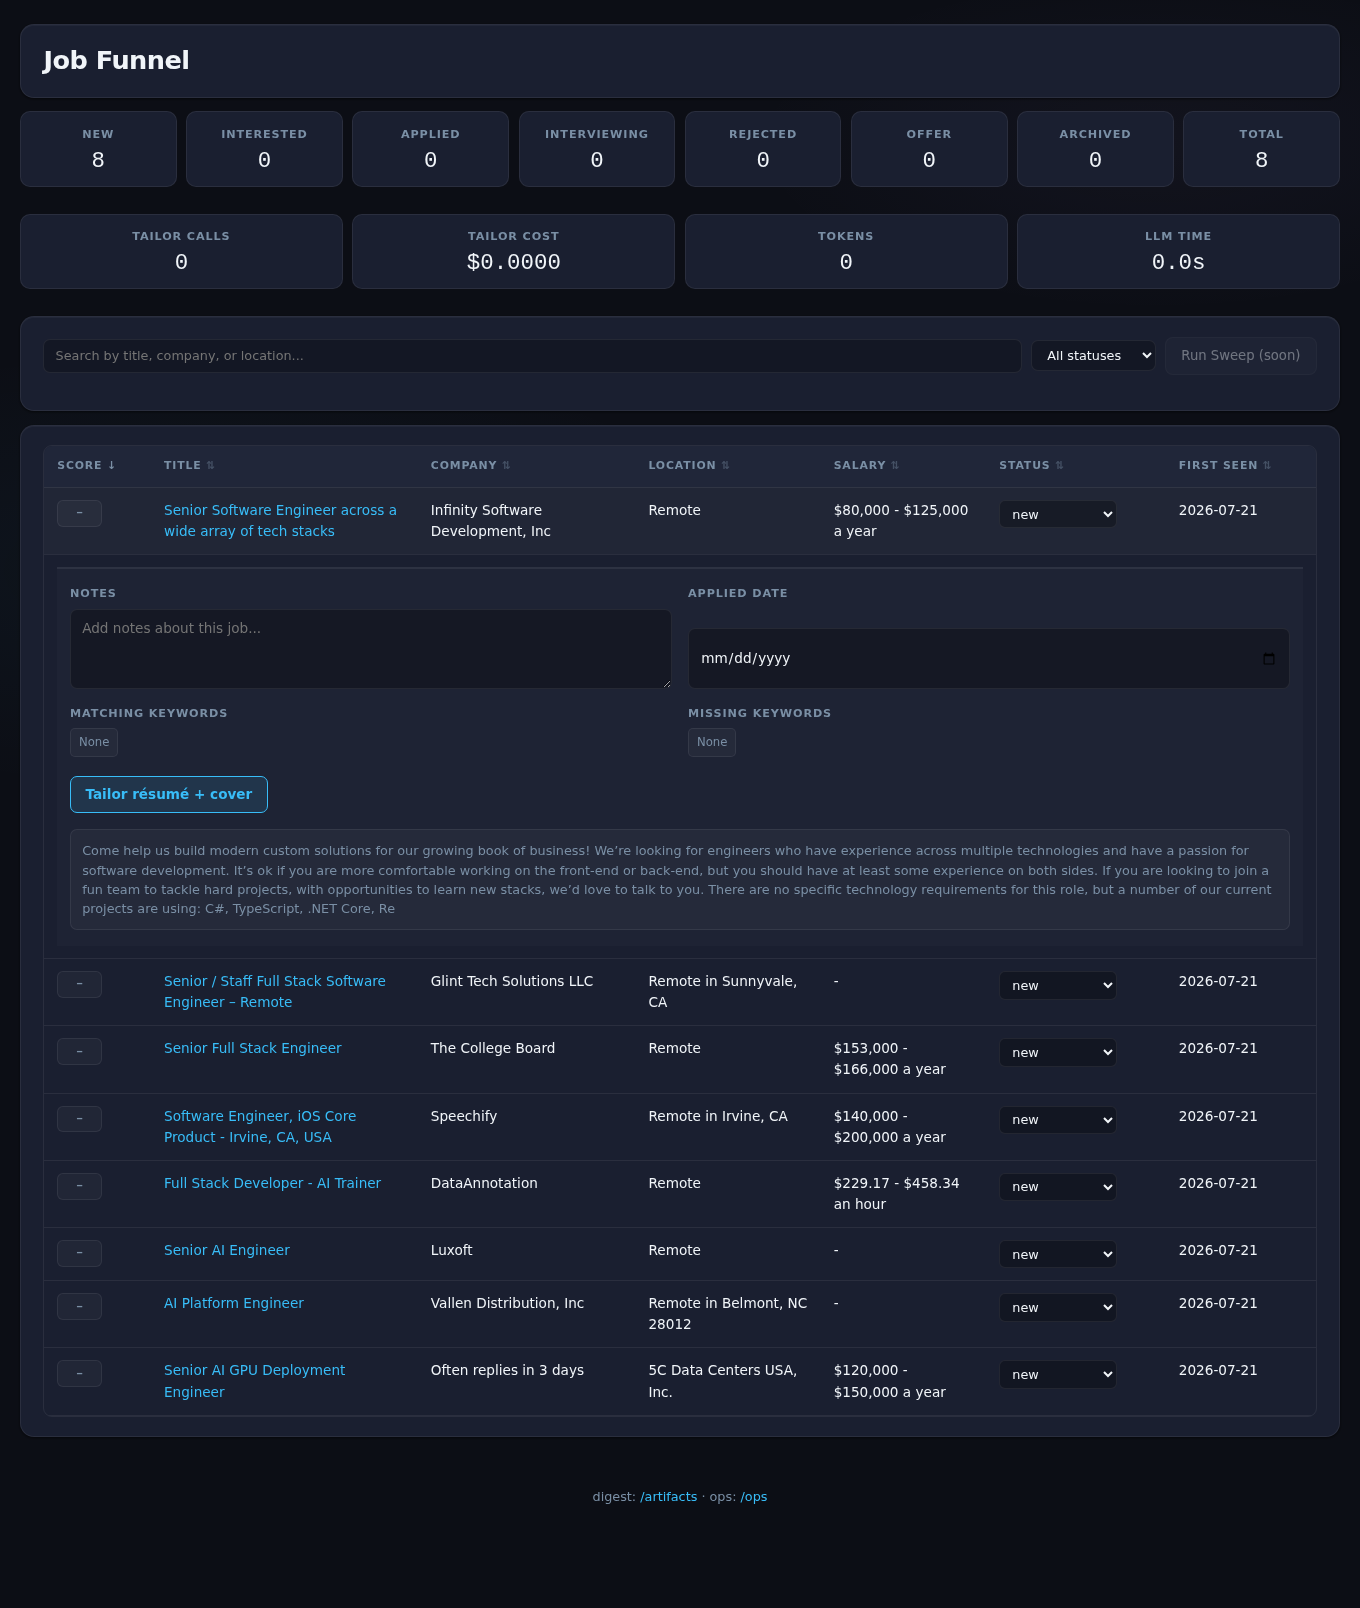
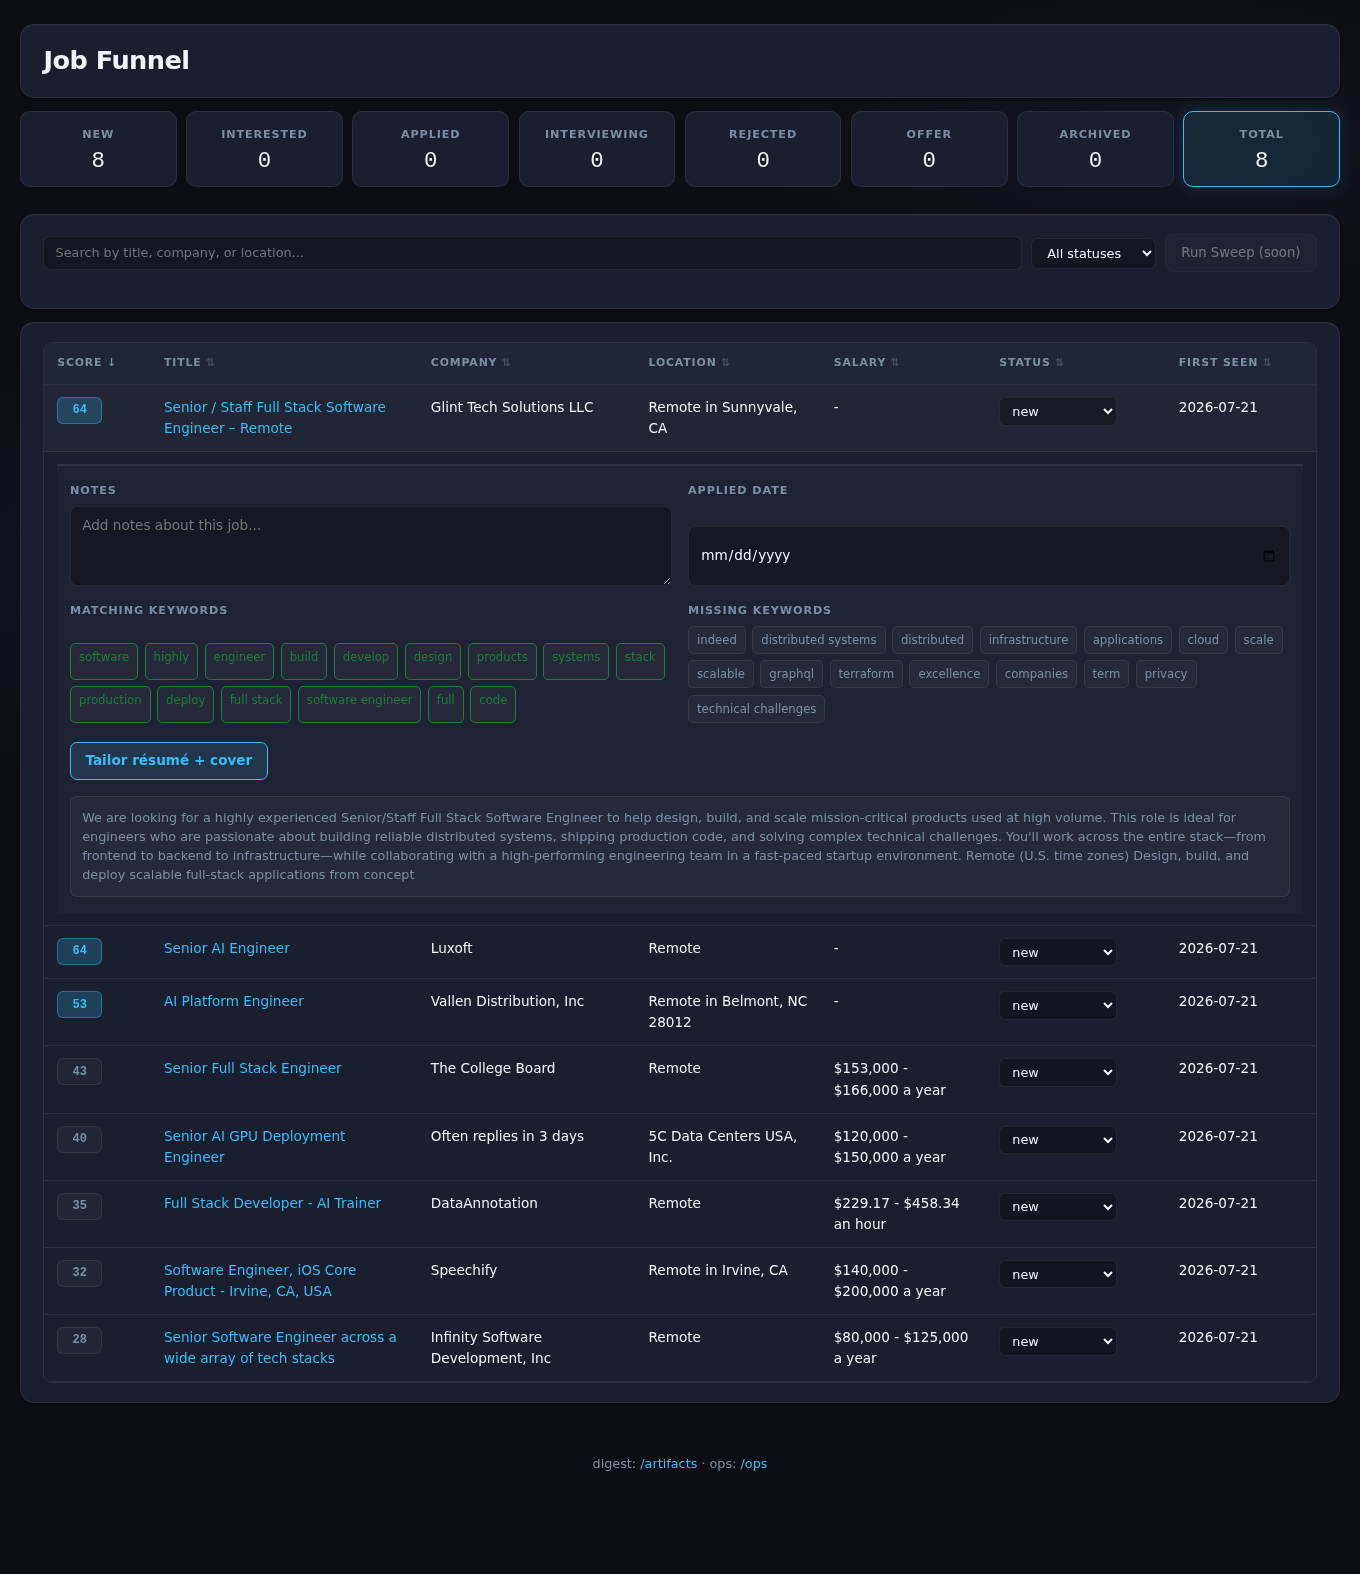
Tracker Phase 2 review fixes: clickable Total, move LLM stats off main page
- Total status tile is now clickable (clears the status filter) and shows an
  active state when no filter is set — matches the other tiles.
- Remove the cumulative LLM stat tiles from the tracker header (they read as
  out of place on the main view). The /api/tracker/llm-stats route + llm_totals
  stay for the Phase 3 History tab; per-job tailor cost remains on the row where
  it's contextual to the Tailor action.
- Refresh screenshots with a seeded résumé so scores + matching/missing keywords
  render (empty before only because this worktree had no résumé).

Claude-Session: https://claude.ai/code/session_012xZGmuDvbqEjF9KNtL9y4o

diff --git a/src/dashboard/static/tracker.js b/src/dashboard/static/tracker.js
@@ -3,7 +3,6 @@ const STATUSES = ["new", "interested", "applied", "interviewing", "rejected", "o
 
 // DOM elements
 const statusTilesContainer = document.getElementById("status-tiles");
-const llmStatsContainer = document.getElementById("llm-stats");
 const searchInput = document.getElementById("search-input");
 const statusFilter = document.getElementById("status-filter");
 const errorMessage = document.getElementById("error-message");
@@ -89,20 +88,6 @@ async function fetchSummary() {
   } catch (error) {
     console.error("Failed to fetch summary:", error);
     showError("Failed to load summary data");
-  }
-}
-
-/**
- * Fetch cumulative LLM stats (tailoring is the only LLM cost source)
- */
-async function fetchLlmStats() {
-  try {
-    const response = await fetch("/api/tracker/llm-stats");
-    if (!response.ok) throw new Error(`HTTP ${response.status}`);
-    renderLlmStats(await response.json());
-  } catch (error) {
-    console.error("Failed to fetch LLM stats:", error);
-    // Non-fatal: the tracker is usable without the stats tiles.
   }
 }
 
@@ -199,8 +184,7 @@ async function tailorJob(url, btn) {
       const err = await response.json().catch(() => ({}));
       throw new Error(err.detail || `HTTP ${response.status}`);
     }
-    // Refresh cost tiles + rows, then re-open the row so links are visible.
-    await fetchLlmStats();
+    // Refresh rows (per-job cost + links), then re-open the row.
     await fetchJobs();
     reopenRow(url);
   } catch (error) {
@@ -251,9 +235,12 @@ function renderStatusTiles() {
     statusTilesContainer.appendChild(tile);
   });
 
-  // Add Total tile
+  // Add Total tile — clicking it clears the status filter (shows all)
   const totalTile = document.createElement("div");
   totalTile.className = "status-tile";
+  if (currentFilterStatus === null) {
+    totalTile.classList.add("active");
+  }
   const totalLabel = document.createElement("span");
   totalLabel.className = "status-tile-label";
   totalLabel.textContent = "Total";
@@ -262,34 +249,13 @@ function renderStatusTiles() {
   totalCount.textContent = summary.total || 0;
   totalTile.appendChild(totalLabel);
   totalTile.appendChild(totalCount);
-  statusTilesContainer.appendChild(totalTile);
-}
-
-/**
- * Render LLM stat tiles (cumulative tailoring usage)
- */
-function renderLlmStats(stats) {
-  const tiles = [
-    ["Tailor Calls", stats.calls ?? 0],
-    ["Tailor Cost", `$${(stats.total_cost ?? 0).toFixed(4)}`],
-    ["Tokens", (stats.total_tokens ?? 0).toLocaleString()],
-    ["LLM Time", `${(stats.total_time_seconds ?? 0).toFixed(1)}s`],
-  ];
-
-  llmStatsContainer.innerHTML = "";
-  tiles.forEach(([label, value]) => {
-    const tile = document.createElement("div");
-    tile.className = "stat-tile";
-    const l = document.createElement("span");
-    l.className = "stat-tile-label";
-    l.textContent = label;
-    const v = document.createElement("span");
-    v.className = "stat-tile-value";
-    v.textContent = value;
-    tile.appendChild(l);
-    tile.appendChild(v);
-    llmStatsContainer.appendChild(tile);
+  totalTile.addEventListener("click", () => {
+    currentFilterStatus = null;
+    statusFilter.value = "";
+    renderStatusTiles();
+    filterAndRenderJobs();
   });
+  statusTilesContainer.appendChild(totalTile);
 }
 
 /**
@@ -580,7 +546,6 @@ async function init() {
 
   // Load data
   await fetchSummary();
-  await fetchLlmStats();
   await fetchJobs();
 
   // Update sort indicators

diff --git a/src/dashboard/static/tracker.html b/src/dashboard/static/tracker.html
@@ -284,41 +284,6 @@
       gap: 0.4rem;
     }
 
-    /* LLM stats tiles (tailoring cost) */
-    .llm-stats {
-      display: grid;
-      grid-template-columns: repeat(auto-fit, minmax(120px, 1fr));
-      gap: 0.6rem;
-      margin-bottom: 0.85rem;
-    }
-
-    .stat-tile {
-      background: var(--panel-bg);
-      border: 1px solid var(--border);
-      border-radius: 10px;
-      padding: 0.85rem 1rem;
-      text-align: center;
-    }
-
-    .stat-tile-label {
-      display: block;
-      font-size: 0.7rem;
-      font-weight: 600;
-      text-transform: uppercase;
-      letter-spacing: 0.08em;
-      color: var(--muted);
-      margin-bottom: 0.4rem;
-    }
-
-    .stat-tile-value {
-      display: block;
-      font-family: 'JetBrains Mono', monospace;
-      font-size: 1.4rem;
-      font-weight: 500;
-      color: var(--text);
-      line-height: 1;
-    }
-
     /* Tailor action row */
     .tailor-section {
       grid-column: 1 / -1;
@@ -446,9 +411,6 @@
 
     <!-- Status tiles -->
     <section class="status-tiles" id="status-tiles"></section>
-
-    <!-- LLM stats (tailoring cost) -->
-    <section class="llm-stats" id="llm-stats"></section>
 
     <!-- Error message (hidden by default) -->
     <div id="error-message" class="tracker-error" style="display: none;"></div>
